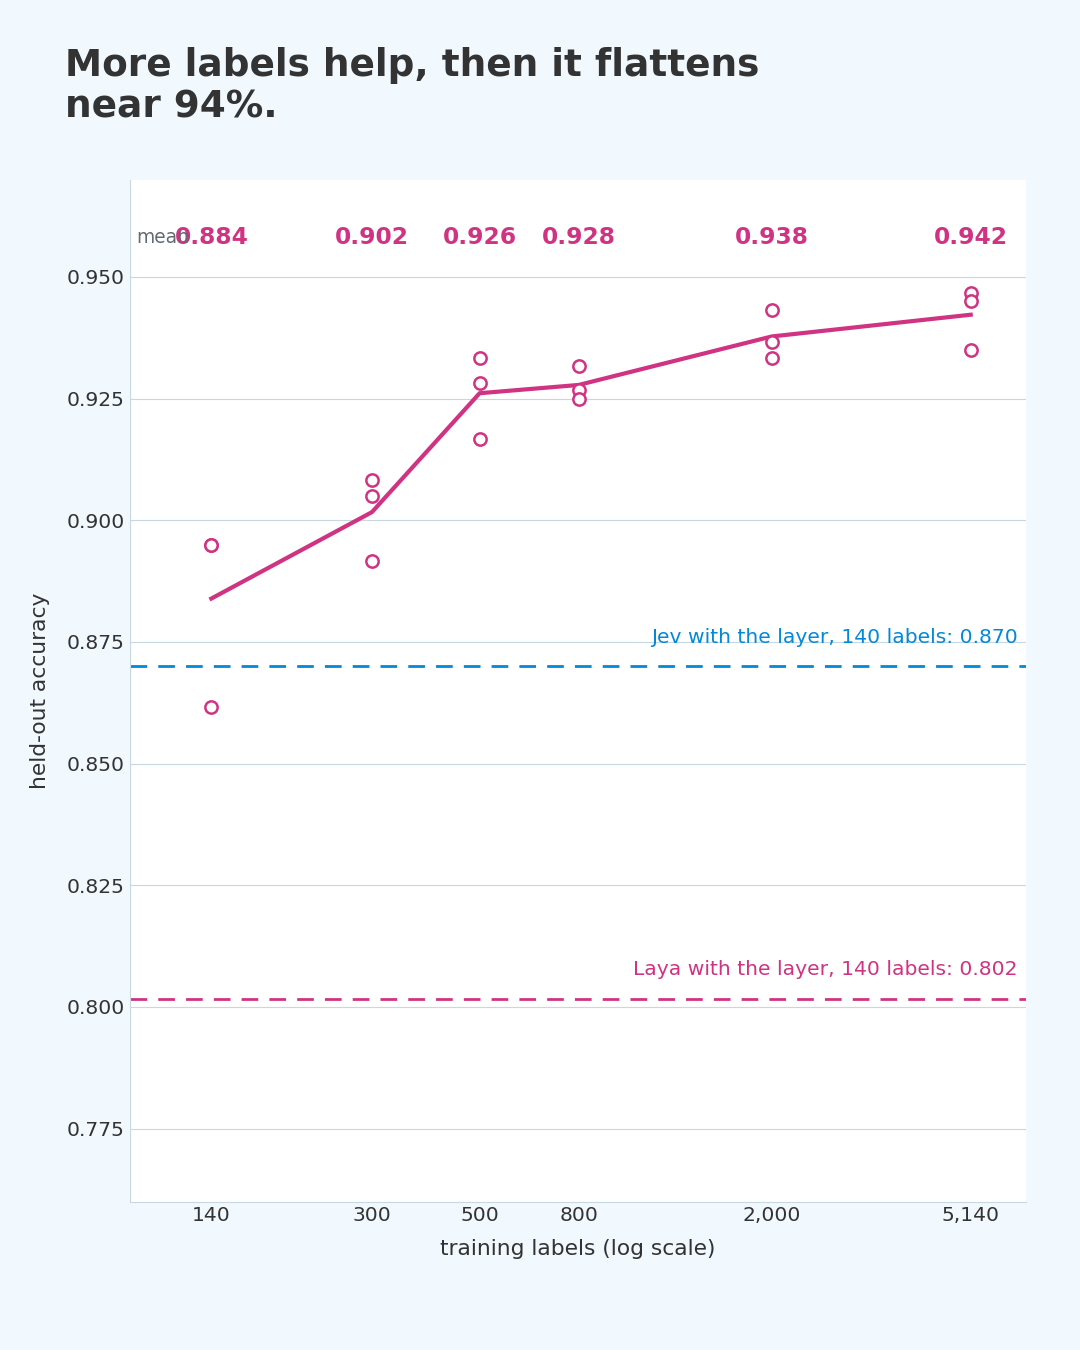
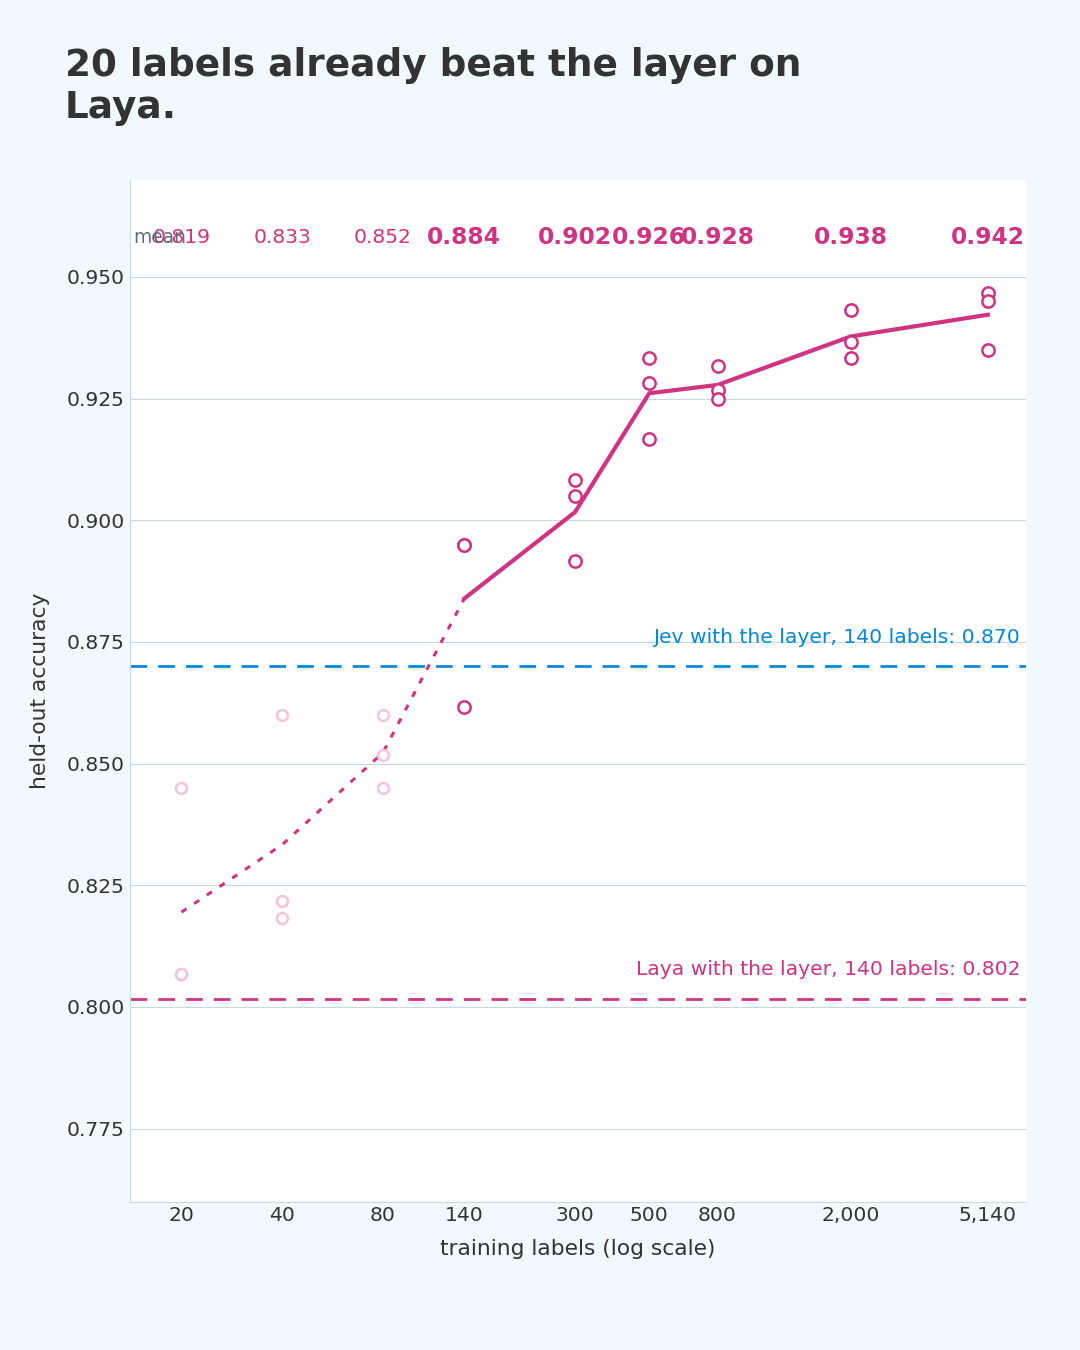
Pin site content: exploratory fine-tune results and the extended learning curve

diff --git a/scripts/generate-jev-vs-laya-charts.py b/scripts/generate-jev-vs-laya-charts.py
@@ -366,7 +366,7 @@ def chart_curve(paired, arms, layout):
               "sizes on disk so far; still running: " + ", ".join(f"{n:,}" for n in pending))
     fig, axes, scale, orient, top = new_figure(
         layout,
-        "More labels help, then it flattens near 94%.",
+        "20 labels already beat the layer on Laya.",
         f"Arm C: full fine-tune on random pool draws, 3 seeds per size (dots), mean (line). Held-out accuracy, 600 items. "
         f"Showing {status}.")
     ax = axes[0][0]
@@ -377,9 +377,25 @@ def chart_curve(paired, arms, layout):
                    edgecolor=MAGENTA, linewidth=1.8, zorder=4)
         means.append(statistics.mean(r["paper600_accuracy"] for r in rows))
     ax.plot(sizes, means, color=MAGENTA, linewidth=3, zorder=3)
+    all_sizes = list(sizes)
+    # exploratory small budgets (not pre-registered): lighter marks and a dashed lead-in
+    small = defaultdict(list)
+    for r in read_jsonl(STUDIES / "finetune_laya.jsonl"):
+        if r.get("exploratory") and r["arm"] == "C":
+            small[r["n_labels"]].append(r["paper600_accuracy"])
+    if small:
+        xs = sorted(small)
+        ms = [statistics.mean(small[n]) for n in xs]
+        for n in xs:
+            ax.scatter([n] * len(small[n]), small[n], s=55 * scale, facecolor=PANEL, edgecolor=TINT[MAGENTA],
+                       linewidth=1.8, zorder=4)
+        ax.plot(xs + sizes[:1], ms + means[:1], color=MAGENTA, linewidth=2.2, linestyle=(0, (2, 3)), zorder=3)
+        for n, m in zip(xs, ms):
+            ax.text(n, 0.958, f"{m:.3f}", ha="center", va="center", fontsize=13 * scale, color=MAGENTA)
+        all_sizes = xs + list(sizes)
     for n, m in zip(sizes, means):
         ax.text(n, 0.958, f"{m:.3f}", ha="center", va="center", fontsize=15 * scale, fontweight="bold", color=MAGENTA)
-    ax.text(98, 0.958, "mean", ha="left", va="center", fontsize=12 * scale, color=MUTED)
+    ax.text(min(all_sizes) * 0.72, 0.958, "mean", ha="left", va="center", fontsize=12 * scale, color=MUTED)
     for value, colour, label in ((layer_jev, BLUE, f"Jev with the layer, 140 labels: {layer_jev:.3f}"),
                                  (layer_laya, MAGENTA, f"Laya with the layer, 140 labels: {layer_laya:.3f}")):
         ax.axhline(value, color=colour, linewidth=2, linestyle=(0, (6, 4)), zorder=2)
@@ -388,10 +404,11 @@ def chart_curve(paired, arms, layout):
         ax.axvline(n, color=GRID, linewidth=1.5, linestyle=":", zorder=1)
         ax.text(n, 0.765, "pending", rotation=90, ha="right", va="bottom", fontsize=11.5 * scale, color=MUTED)
     ax.set_xscale("log")
-    ax.set_xticks(PLANNED_C_SIZES)
-    ax.set_xticklabels([f"{n:,}" for n in PLANNED_C_SIZES], fontsize=13 * scale)
+    ticks = sorted(set(all_sizes) | set(PLANNED_C_SIZES))
+    ax.set_xticks(ticks)
+    ax.set_xticklabels([f"{n:,}" for n in ticks], fontsize=13 * scale)
     ax.minorticks_off()
-    ax.set_xlim(95, PLANNED_C_SIZES[-1] * 1.3)
+    ax.set_xlim(min(ticks) * 0.7, PLANNED_C_SIZES[-1] * 1.3)
     ax.set_ylim(0.76, 0.97)
     ax.set_xlabel("training labels (log scale)", fontsize=14 * scale, color=INK, labelpad=10)
     ax.set_ylabel("held-out accuracy", fontsize=14 * scale, color=INK, labelpad=12)
